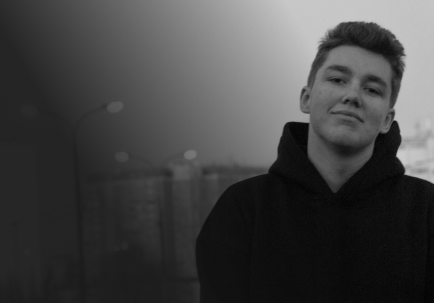
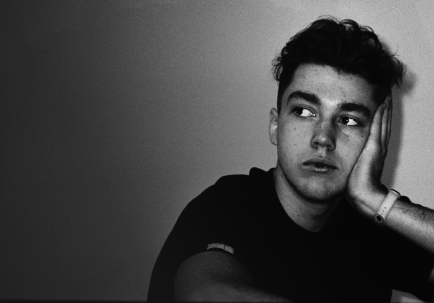
update maxim photo about page

diff --git a/src/stylesheets/about.scss b/src/stylesheets/about.scss
@@ -384,106 +384,8 @@ body.about {
     }
   }
 
-  .mail-index {
-    padding: 17vw 5.5vw 10vw 5.5vw;
-
-    .mail-text-index {
-      padding-top: 8vw;
-      padding-bottom: 6vw;
-
-      & h4 {
-        font-size: 4vw;
-        text-align: center;
-        font-weight: 400;
-        color: var(--white);
-
-        & b {
-          color: var(--green);
-          font-style: italic;
-
-          & :hover {
-            text-decoration: underline;
-          }
-        }
-      }
-
-      & h5 {
-        padding-top: 3%;
-        font-size: 1.5vw;
-        line-height: 1.8vw;
-        text-align: center;
-        font-weight: 300;
-        color: var(--white);
-
-        & b {
-          font-size: inherit;
-          font-weight: 300;
-          font-style: italic;
-          text-transform: uppercase;
-          color: var(--green);
-
-          & :hover {
-            text-decoration: underline;
-          }
-        }
-      }
-    }
-
-    .mail-input-index {
-      margin: 0 auto;
-      width: 25vw;
-      position: relative;
-    }
-
-    .email-form {
-      width: 100%;
-      display: flex;
-      justify-content: space-between;
-      position: relative;
-
-      .input-email {
-        color: var(--white);
-        width: 25vw;
-        height: 2.6vw;
-        border: 1.5px solid var(--grey);
-        border-radius: 5px;
-        background-color: var(--black);
-      }
-
-      input[placeholder] {
-        padding-left: 0.8vw;
-        font-size: 1.5vw;
-      }
-
-      .input-email::-webkit-input-placeholder {
-        color: var(--grey);
-      }
-
-      button {
-        width: 2.03vw;
-        height: 2.03vw;
-        outline: none;
-        border: 0;
-        background: transparent;
-        position: absolute;
-        top: 0.3vw;
-        right: 0.3vw;
-      }
-
-      #email-form-done {
-        position: absolute;
-        padding-top: 3%;
-        margin: 0.5vw 8.3vw;
-        font-size: 1vw;
-        font-style: normal;
-        font-weight: 300;
-        color: var(--green);
-      }
-    }
-  }
-
   .footer {
-    padding: 2.5vw 0 3.5vw 0;
+    padding: 10vw 0 3.5vw 0;
   }
 }
 

diff --git a/src/about.html b/src/about.html
@@ -137,7 +137,7 @@
           </a>
         </div>
       </div>
-      <div class="mail-index">
+      <!-- <div class="mail-index">
         <div class="mail-text-index">
           <h4>Узнай о запуске <b>HOT KEYS!</b></h4>
           <h5>
@@ -152,8 +152,7 @@
         </div>
 
         <emailform></emailform>
-      </div>
-
+      </div> -->
       <footer></footer>
     </div>
   </body>

diff --git a/src/partials/footer.html b/src/partials/footer.html
@@ -26,7 +26,7 @@
         </svg>
       </div>
     </a>
-    <a target="_blank" href="https://hotkeys.adc.ac/about.html">
+    <a href="https://hotkeys.adc.ac/about.html">
       <div class="footer-item-about">
         <h3>О ПРОЕКТЕ</h3>
       </div>
